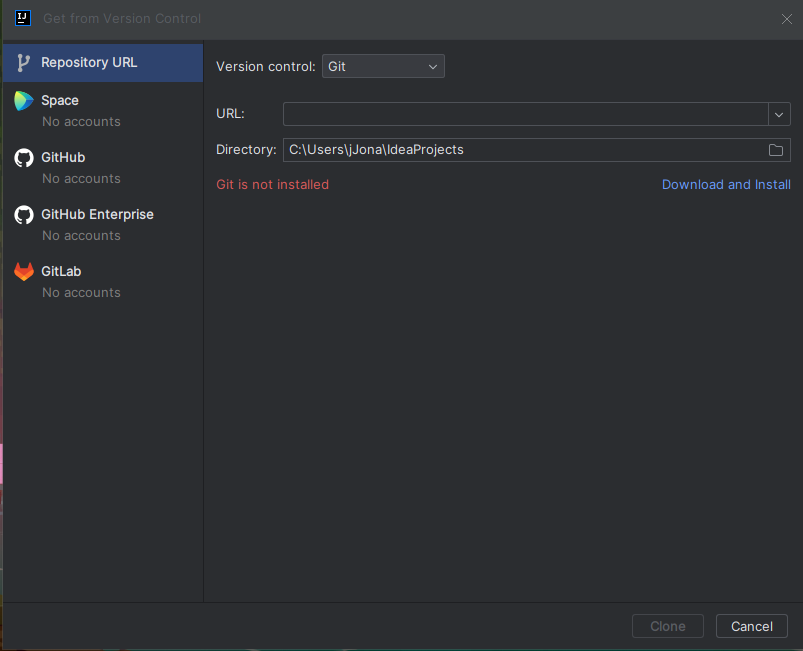
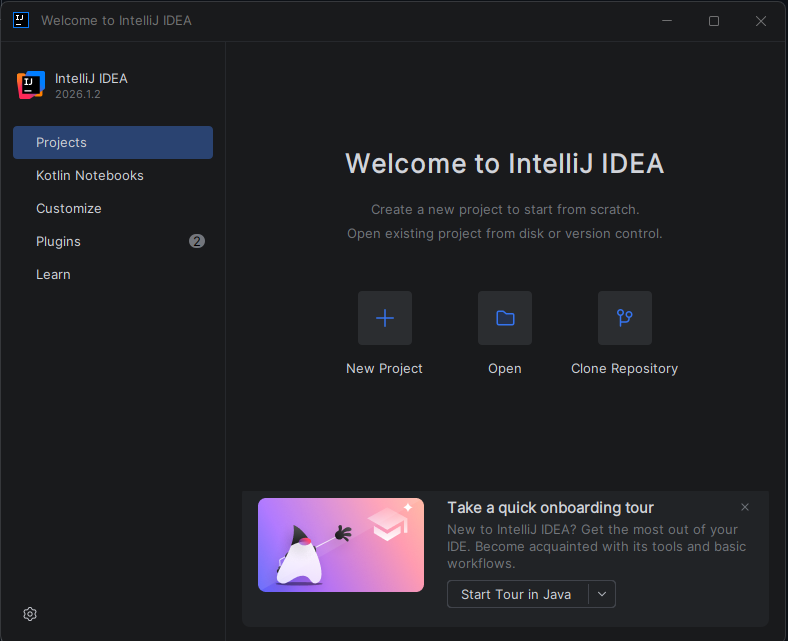
Text and Images updated to the newest versions

diff --git a/README.md b/README.md
@@ -9,27 +9,29 @@ Das Spiel endet, wenn der Treibstoff beider Teams verbraucht ist.
 
 ### Intellij installieren
 
-- IntelliJ ***Community Edition*** (nicht die Ultimate Edition!) - *um zur Community Edition zu kommen muss man herunterscrollen* -  [herunterladen](https://www.jetbrains.com/idea/download/) und installieren.</br></br>
-![Downloadseite der Ultimate Edition](.readme/0_NotUltimate.png)</br></br>
-![Downloadseite der Community Edition](.readme/1_DownlaodIDEA.png)</br></br>
-![Installationsübersicht der IntelliJ IDEA](.readme/2_IstallIDEA.png)</br></br>
+- IntelliJ  -  [herunterladen](https://www.jetbrains.com/idea/download/) und installieren.</br></br>
+![Downloadseite der Ultimate Edition](.readme/0_IntelliJ.png)</br></br>
+![Downloadseite der Community Edition](.readme/1_DownloadIntelliJ.png)</br></br>
+![Installationsübersicht der IntelliJ IDEA](.readme/2_InstallIntelliJ.png)</br></br>
 
 ### Git installieren
 
-- In IntelliJ auf `Get from VSC` klicken, dann auf `Repository URL`.
+- In IntelliJ auf `Clone Repository` klicken, dann auf `Repository URL`.
+![Übersicht des Get from Version Control Fensters](.readme/3_InstallGit.png)</br></br>
 - Version control auf `Git` einstellen.
 - Sollte die Fehlermeldung `Git is not installed` auftauchen auf `Download and Install` klicken.</br></br>
-![Übersicht des Get from Version Control Fensters](.readme/3_InstallGIT.png)</br></br>
     
 ### Planet Sudo installieren
 
 - In IntelliJ im selben Fenster die URL `https://github.com/openbase/planetsudo` einfügen und auf `Clone` klicken.
-- Sollte die Fehlermeldung `JDK "17" is missing` auftreten auf `Configure...` --> `Download JDK` gehen und dann `Eclipse Temurin` auswählen und installieren.</br></br>
-![Das Download JDK Fenster](.readme/4_ConfigureJDK.png)</br></br>
+- Planet Sudo Project vertrauen
+  ![Das Project vertrauen Fenster](.readme/4_ProjektVertrauen.png)</br></br>
+- Sollte die Fehlermeldung `JDK "20" is missing` auftreten auf `Configure...` --> `Download JDK` gehen und dann `Microsoft OpenJDK` auswählen und installieren.</br></br>
+![Das Download JDK Fenster](.readme/5_ConfigureJDK.png)</br></br>
 
 - Die Datei `src/main/kotlin/org.openbase.planetsudo/main/PlanetSudo.kt` öffnen (Doppelklick).
-- Jetzt kann PlanetSudo gestartet werden. Dazu einen Rechtsklick auf `Planet Sudo` und dann auf `Run 'Planet Sudo'` </br></br>
-![Wie man Planet Sudo Startet](.readme/5_RunPlanetSudo.png)</br></br>
+- Nach kurzer Wartezeit wegen des Downloads, kann PlanetSudo gestartet werden. Dazu einen Rechtsklick auf `Planet Sudo` und dann auf `Run 'Planet Sudo'` </br></br>
+![Wie man Planet Sudo Startet](.readme/6_RunPlanetSudo.png)</br></br>
 
 - Wenn du dich mit einem PlanetSudo Server verbinden willst, kannst du diesen in IntelliJ wie folgt einstellen (Vorher muss PlanetSudo wie oben beschrieben gestartet werden): Dazu oben rechts auf `PlanetSudo` klicken dort auf `Edit Configuration` und dann unter `Programm arguments: --server YOUR_SERVER_NAME` eingeben. Dann das ganze mit `Apply` bestätigen.</br></br>
   ![Öffnen der Configurations](.readme/6_Configurations.png)</br></br>
